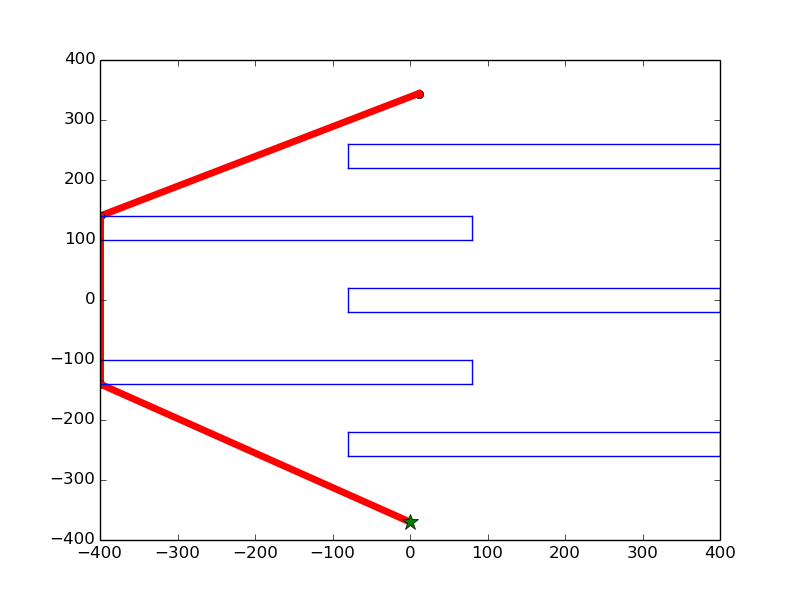
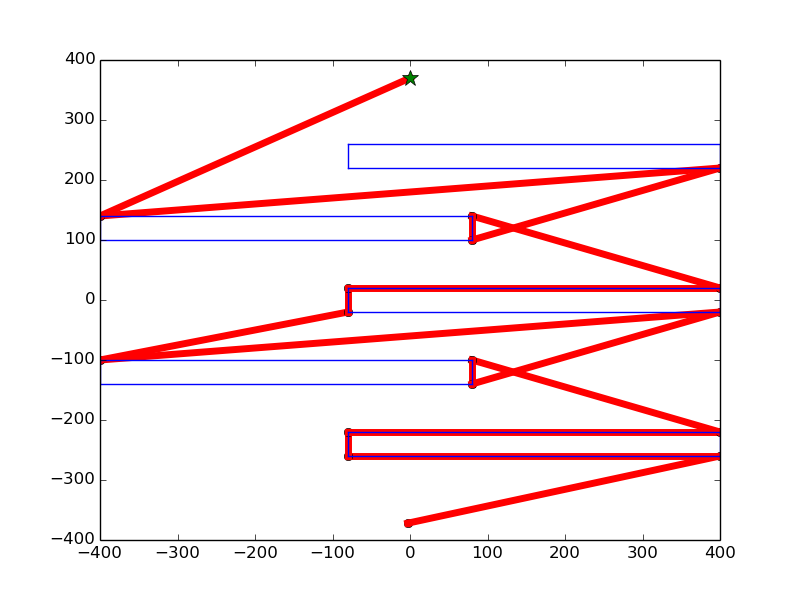
Fixed bug in removing visibility for obstacle edges on the edge of the map. Our visibility graph should be correct now :)

Changed region(s): [[0.125, 0.12, 0.9062, 0.9], [0.1562, 0.66, 0.3125, 0.75], [0.3125, 0.75, 0.4062, 0.81]]

diff --git a/bzagents/PathFinder.py b/bzagents/PathFinder.py
@@ -70,21 +70,8 @@ class PathFinder(object):
                         self.visibility_graph[col][row] = 0
 
         # remove any edges that are on the very edge of the map (and therefore couldn't be traversed by the tank)
-        for index1 in range(length):
-            point1 = self.points[index1]
-            if abs(point1[0]) == 400:  # the x value is on the edge of the map
-                for index2 in range(length):
-                    point2 = self.points[index2]
-                    if self.visibility_graph[index1][index2] == 1 and abs(point2[0] == 400):  # both of these points' x values are on the edge of the map
-                        self.visibility_graph[index1][index2] = 0  # make them invisible to each other
-                        self.visibility_graph[index2][index1] = 0
+        self.remove_visibility_on_world_edges()
 
-            if abs(point1[1] == 400):  # the y value is on the edge of the map
-                for index2 in range(length):
-                    point2 = self.points[index2]
-                    if self.visibility_graph[index1][index2] == 1 and abs(point2[1] == 400):  # both of these points' y values are on the edge of the map
-                        self.visibility_graph[index1][index2] = 0  # make them invisible to each other
-                        self.visibility_graph[index2][index1] = 0
 
     def is_visible(self, point1, point2):
         # check if they are the same point...a point is not visible to itself
@@ -143,6 +130,45 @@ class PathFinder(object):
         y = 1
 
         return (seg_end[x]-seg_start[x]) * (point[y]-seg_end[y]) - (seg_end[y]-seg_start[y]) * (point[x]-seg_end[x])
+
+    def remove_visibility_on_world_edges(self):
+        length = len(self.points)
+
+        for index1 in range(length):
+            point1 = self.points[index1]
+
+            # check left edge
+            if point1[0] == -400:  # the x value is on the left edge of the map
+                for index2 in range(length):
+                    point2 = self.points[index2]
+                    if self.visibility_graph[index1][index2] == 1 and point2[0] == -400:  # both of these points' x values are on the left edge of the map
+                        self.visibility_graph[index1][index2] = 0  # make them invisible to each other
+                        self.visibility_graph[index2][index1] = 0
+
+            # check right edge
+            elif point1[0] == 400:  # the x value is on the right edge of the map
+                for index2 in range(length):
+                    point2 = self.points[index2]
+                    if self.visibility_graph[index1][index2] == 1 and point2[0] == 400:  # both of these points' x values are on the edge of the map
+                        self.visibility_graph[index1][index2] = 0  # make them invisible to each other
+                        self.visibility_graph[index2][index1] = 0
+
+            # check top edge
+            elif point1[1] == 400:  # the y value is on the top edge of the map
+                for index2 in range(length):
+                    point2 = self.points[index2]
+                    if self.visibility_graph[index1][index2] == 1 and point2[1] == 400:  # both of these points' y values are on the top edge of the map
+                        self.visibility_graph[index1][index2] = 0  # make them invisible to each other
+                        self.visibility_graph[index2][index1] = 0
+
+            # check bottom edge
+            elif point1[1] == -400:  # the y value is on the bottom edge of the map
+                for index2 in range(length):
+                    point2 = self.points[index2]
+                    if self.visibility_graph[index1][index2] == 1 and point2[1] == -400:  # both of these points' y values are on the bottom edge of the map
+                        self.visibility_graph[index1][index2] = 0  # make them invisible to each other
+                        self.visibility_graph[index2][index1] = 0
+
 
     def print_visibility_graph(self):
         print "Visibility Graph:"
